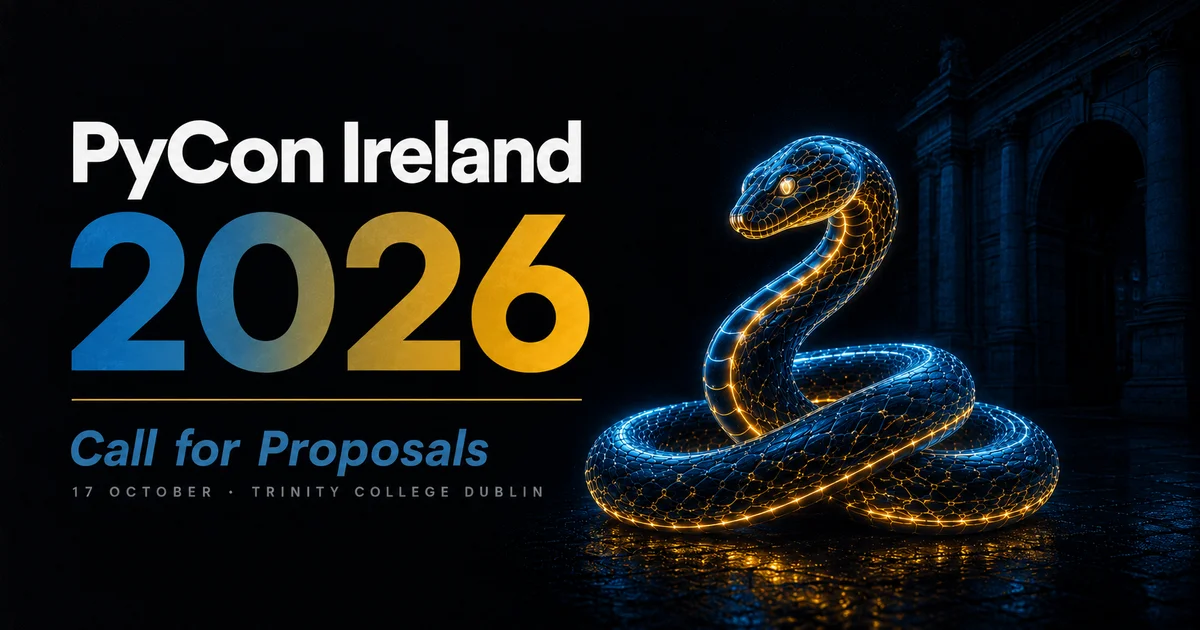
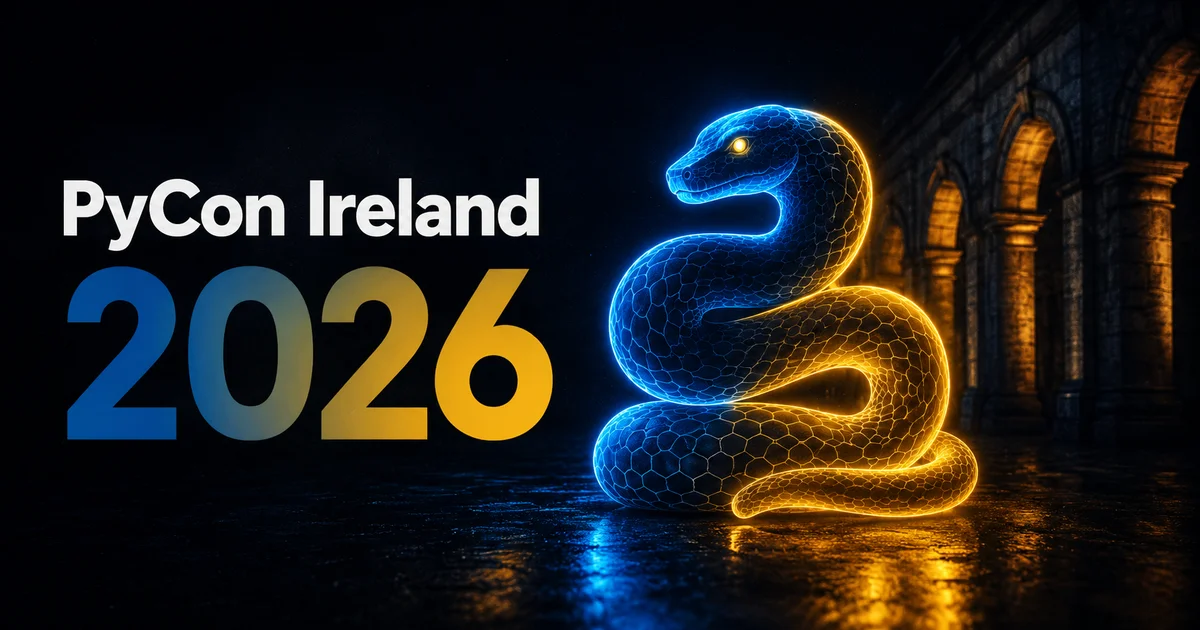
Close CFP and flag venue/date change pending new venue (#142)
* Close CFP and flag venue/date change pending new venue

Trinity College Dublin can no longer host PyCon Ireland 2026, so the
venue and date (17 October 2026) are no longer confirmed.

- Close the Call for Proposals (cfpStatus = "closed") with dedicated
  messaging on the homepage, hero, key-questions section, and the CFP
  page itself, instead of falling back to the misleading 'opening
  soon' state.
- Add a sitewide notice banner (venueChangePending param) in the
  header linking to the announcement post.
- Strike through the conference date (and venue where relevant) on
  every page that references it: homepage hero, key facts bar,
  key-questions section, footer, CFP page, and venue page.
- Add a notice box on the venue page explaining the venue is changing.
- Set the Event structured data eventStatus to EventPostponed while
  venueChangePending is true.
- Update the CFP page FAQ schema and OG/meta description to reflect
  the closure instead of a fixed deadline.
- Add a blog post explaining the venue change and CFP closure.

* Fix venue page still presenting Trinity College Dublin as confirmed

The venue page title, meta description, and hero heading asserted
Trinity College Dublin as the confirmed venue, contradicting the
notice box below it explaining the venue is changing.

- Rewrite venue page title/description to reflect the pending change
- Strike through the venue name in the hero H1 when
  venueChangePending is true, matching the pattern already used on
[…]

diff --git a/layouts/cfp/list.html b/layouts/cfp/list.html
@@ -27,6 +27,11 @@
       <span class="w-2 h-2 rounded-full bg-green-400 animate-pulse"></span>
       CFP Now Open
     </span>
+    {{ else if eq .Site.Params.cfpStatus "closed" }}
+    <span class="inline-flex items-center gap-2 bg-red-500/10 border border-red-500/30 text-red-400 text-sm font-semibold px-4 py-2 rounded-full mb-8">
+      <span class="w-2 h-2 rounded-full bg-red-400"></span>
+      CFP Temporarily Closed
+    </span>
     {{ else }}
     <span class="inline-flex items-center gap-2 bg-py-yellow/10 border border-py-yellow/30 text-py-yellow text-sm font-semibold px-4 py-2 rounded-full mb-8">
       <span class="w-2 h-2 rounded-full bg-py-yellow animate-pulse"></span>
@@ -36,9 +41,30 @@
     <h1 class="text-4xl sm:text-5xl font-bold text-text-heading mb-6 font-brand">
       {{ .Site.Title }} Call for Proposals
     </h1>
+    {{ if eq .Site.Params.cfpStatus "closed" }}
     <p class="text-xl text-text-secondary max-w-2xl mx-auto mb-8">
-      PyCon Ireland is looking for speakers. Share your Python knowledge, inspire the community, and take the stage at <strong class="text-text-primary">{{ .Site.Params.venue }}</strong> on <strong class="text-text-primary">{{ .Site.Params.dateHuman }}</strong>.
+      PyCon Ireland is looking for speakers, but the Call for Proposals is temporarily closed. Our booked venue,
+      <s class="opacity-60">{{ .Site.Params.venue }}</s>, can no longer host the event on <s class="opacity-60">{{ .Site.Params.dateHuman }}</s>.
+      We are confirming a new venue and date before reopening submissions.
     </p>
+    <div class="max-w-2xl mx-auto mb-8 bg-bg-card border border-red-500/20 rounded-2xl px-6 py-5 text-text-secondary text-sm text-left">
+      <p><strong class="text-text-primary">Why is the CFP closed?</strong> Read the full explanation in our
+      <a href="/blog/venue-change/" class="text-py-yellow hover:underline">blog post</a>. We will reopen the CFP, with a fresh timeline, once the new venue and date are confirmed.</p>
+    </div>
+    {{ else }}
+    <p class="text-xl text-text-secondary max-w-2xl mx-auto mb-8">
+      {{ if .Site.Params.venueChangePending }}
+      PyCon Ireland is looking for speakers. Share your Python knowledge and inspire the community, no need to wait for us to confirm the new venue and date before submitting your proposal.
+      {{ else }}
+      PyCon Ireland is looking for speakers. Share your Python knowledge, inspire the community, and take the stage at <strong class="text-text-primary">{{ .Site.Params.venue }}</strong> on <strong class="text-text-primary">{{ .Site.Params.dateHuman }}</strong>.
+      {{ end }}
+    </p>
+    {{ if .Site.Params.venueChangePending }}
+    <div class="max-w-2xl mx-auto mb-8 bg-bg-card border border-py-blue/20 rounded-2xl px-6 py-5 text-text-secondary text-sm text-left">
+      <p><strong class="text-text-primary">Venue and date still to be confirmed.</strong> Our booked venue can no longer host the conference, and we are working on a new venue and date. Read the
+      <a href="/blog/venue-change/" class="text-py-yellow hover:underline">latest update</a>. The Call for Proposals is open in the meantime, and accepted speakers will be informed of the new venue and date as soon as they are confirmed.</p>
+    </div>
+    {{ end }}
 
     {{/* CFP dates */}}
     <div class="flex flex-wrap justify-center gap-4 mb-8">
@@ -51,6 +77,7 @@
         <span class="text-text-secondary">Deadline <strong class="text-text-primary">{{ dateFormat "2 January 2006" .Site.Params.cfpCloses }}</strong></span>
       </div>
     </div>
+    {{ end }}
 
     {{ if eq .Site.Params.cfpStatus "open" }}
     <a href="{{ .Site.Params.cfpUrl }}" target="_blank" rel="noopener"
@@ -58,6 +85,15 @@
       Submit a Proposal
       <svg class="w-5 h-5" fill="none" viewBox="0 0 24 24" stroke="currentColor"><path stroke-linecap="round" stroke-linejoin="round" stroke-width="2" d="M14 5l7 7m0 0l-7 7m7-7H3"/></svg>
     </a>
+    {{ else if eq .Site.Params.cfpStatus "closed" }}
+    <div class="inline-flex items-center gap-3 bg-bg-card border border-white/10 rounded-2xl px-6 py-4 text-text-secondary text-sm">
+      <svg class="w-5 h-5 text-red-400 flex-shrink-0" fill="none" viewBox="0 0 24 24" stroke="currentColor"><path stroke-linecap="round" stroke-linejoin="round" stroke-width="2" d="M15 17h5l-1.405-1.405A2.032 2.032 0 0118 14.158V11a6.002 6.002 0 00-4-5.659V5a2 2 0 10-4 0v.341C7.67 6.165 6 8.388 6 11v3.159c0 .538-.214 1.055-.595 1.436L4 17h5m6 0v1a3 3 0 11-6 0v-1m6 0H9"/></svg>
+      <span>CFP closed for an indeterminate period. Follow us on
+      <a href="{{ .Site.Params.mastodonUrl }}" target="_blank" rel="me noopener" class="text-py-yellow hover:underline">Mastodon</a>,
+      <a href="https://twitter.com/{{ strings.TrimPrefix "@" .Site.Params.twitterHandle }}" target="_blank" rel="noopener" class="text-py-yellow hover:underline">X</a>
+      or <a href="{{ .Site.Params.linkedinUrl }}" target="_blank" rel="noopener" class="text-py-yellow hover:underline">LinkedIn</a>
+      for updates on the new venue, date, and CFP reopening.</span>
+    </div>
     {{ else }}
     <div class="inline-flex items-center gap-3 bg-bg-card border border-white/10 rounded-2xl px-6 py-4 text-text-secondary text-sm">
       <svg class="w-5 h-5 text-py-blue-light flex-shrink-0" fill="none" viewBox="0 0 24 24" stroke="currentColor"><path stroke-linecap="round" stroke-linejoin="round" stroke-width="2" d="M15 17h5l-1.405-1.405A2.032 2.032 0 0118 14.158V11a6.002 6.002 0 00-4-5.659V5a2 2 0 10-4 0v.341C7.67 6.165 6 8.388 6 11v3.159c0 .538-.214 1.055-.595 1.436L4 17h5m6 0v1a3 3 0 11-6 0v-1m6 0H9"/></svg>
@@ -342,6 +378,13 @@
         Submit a Proposal on Sessionize
         <svg class="w-5 h-5" fill="none" viewBox="0 0 24 24" stroke="currentColor"><path stroke-linecap="round" stroke-linejoin="round" stroke-width="2" d="M14 5l7 7m0 0l-7 7m7-7H3"/></svg>
       </a>
+      {{ else if eq .Site.Params.cfpStatus "closed" }}
+      <h2 class="text-2xl font-bold text-text-heading mb-4">Stay in the Loop</h2>
+      <p class="text-text-secondary mb-8 leading-relaxed">
+        The Call for Proposals will reopen once we have confirmed a new venue and date, currently unknown.
+        Read our <a href="/blog/venue-change/" class="text-py-yellow hover:underline">full update</a>, and
+        follow Python Ireland on social media to be among the first notified when submissions reopen.
+      </p>
       {{ else }}
       <h2 class="text-2xl font-bold text-text-heading mb-4">Stay in the Loop</h2>
       <p class="text-text-secondary mb-8 leading-relaxed">
@@ -395,10 +438,10 @@
     },
     {
       "@type": "Question",
-      "name": "When does the {{ .Site.Title }} Call for Proposals close?",
+      "name": "Is the {{ .Site.Title }} Call for Proposals open?",
       "acceptedAnswer": {
         "@type": "Answer",
-        "text": "The Call for Proposals closes on 31 July 2026. Submissions are reviewed by the programme committee and applicants are notified of the outcome."
+        "text": "{{ if eq .Site.Params.cfpStatus "closed" }}The Call for Proposals is temporarily closed. The original venue can no longer host the conference, so a new venue and date are being confirmed before submissions reopen.{{ else if eq .Site.Params.cfpStatus "open" }}Yes, the Call for Proposals is open until {{ dateFormat "2 January 2006" .Site.Params.cfpCloses }}.{{ if .Site.Params.venueChangePending }} The venue and date are still being confirmed, but you can submit your talk now.{{ end }}{{ else }}The Call for Proposals is not open yet.{{ end }}"
       }
     }
   ]

diff --git a/layouts/venue/list.html b/layouts/venue/list.html
@@ -24,7 +24,11 @@
     <div class="relative z-10 max-w-4xl mx-auto px-4 text-center">
       <p class="text-py-yellow font-semibold text-sm uppercase tracking-widest mb-4">{{ .Site.Title }}</p>
       <h1 class="font-brand text-5xl sm:text-6xl md:text-7xl font-extrabold leading-tight mb-6" style="text-shadow: 0 2px 20px rgba(0,0,0,0.8), 0 0 40px rgba(0,0,0,0.6);">
-        {{ .Site.Params.venue }}
+        {{ if .Site.Params.venueChangePending }}
+          <s class="opacity-60 decoration-2">{{ .Site.Params.venue }}</s>
+        {{ else }}
+          {{ .Site.Params.venue }}
+        {{ end }}
       </h1>
       <p class="text-xl sm:text-2xl text-text-secondary max-w-2xl mx-auto">
         {{ .Description }}
@@ -40,7 +44,23 @@
 <div>
   <div class="section-divider max-w-7xl mx-auto"></div>
 
+  {{ if .Site.Params.venueChangePending }}
+  <section class="pt-16">
+    <div class="max-w-5xl mx-auto px-4 sm:px-6 lg:px-8">
+      <div class="bg-bg-card border border-red-500/20 rounded-2xl p-6 flex flex-col sm:flex-row items-start gap-4">
+        <svg class="w-6 h-6 text-red-400 flex-shrink-0 mt-0.5" fill="none" viewBox="0 0 24 24" stroke="currentColor"><path stroke-linecap="round" stroke-linejoin="round" stroke-width="2" d="M12 9v3.75m-9.303 3.376c-.866 1.5.217 3.374 1.948 3.374h14.71c1.73 0 2.813-1.874 1.948-3.374L13.949 3.378c-.866-1.5-3.032-1.5-3.898 0L2.697 16.126zM12 15.75h.007v.008H12v-.008z"/></svg>
+        <div class="text-text-secondary text-sm leading-relaxed">
+          <strong class="text-text-heading block mb-1">This venue is changing.</strong>
+          <s class="opacity-60">{{ .Site.Params.venue }}</s> is no longer able to host {{ .Site.Title }}. We are working to confirm a new venue and date, and will update this page as soon as details are available.
+          Read the full update on our <a href="/blog/venue-change/" class="text-py-yellow hover:underline">blog</a>.
+        </div>
+      </div>
+    </div>
+  </section>
+  {{ end }}
+
   {{/* Venue details */}}
+  {{ if not .Site.Params.venueChangePending }}
   <section class="py-16">
     <div class="max-w-5xl mx-auto px-4 sm:px-6 lg:px-8">
       <div class="grid grid-cols-1 lg:grid-cols-2 gap-12">
@@ -119,8 +139,10 @@
       </div>
     </div>
   </section>
+  {{ end }}
 </div>
 {{/* ── Accessibility ── */}}
+{{ if not .Site.Params.venueChangePending }}
 <section class="py-20 bg-bg-secondary">
   <div class="max-w-5xl mx-auto px-4 sm:px-6 lg:px-8">
     <div class="text-center mb-12">
@@ -205,8 +227,10 @@
     </div>
   </div>
 </section>
+{{ end }}
 
 {{/* Place schema — defines the @id referenced from the homepage Event location */}}
+{{ if not .Site.Params.venueChangePending }}
 <script type="application/ld+json">
 {
   "@context": "https://schema.org",
@@ -230,5 +254,6 @@
   "telephone": "{{ .Site.Params.venuePhone }}"
 }
 </script>
+{{ end }}
 
 {{ end }}

diff --git a/layouts/partials/key-questions.html b/layouts/partials/key-questions.html
@@ -2,9 +2,17 @@
   <div class="max-w-4xl mx-auto px-4 sm:px-6 lg:px-8">
     <h2 class="text-2xl font-bold text-text-heading mb-3">When and where is {{ .Site.Title }}?</h2>
     <p class="text-text-secondary mb-8 max-w-2xl">
+      {{ if .Site.Params.venueChangePending }}
+      {{ .Site.Title }} was due to take place on <s class="opacity-60">{{ .Site.Params.dateHuman }}</s>
+      at <s class="opacity-60">{{ .Site.Params.venue }}</s>, College Green, Dublin 2, Ireland.
+      The venue can no longer host the event, so a new venue and date are being confirmed — see our
+      <a href="/blog/venue-change/" class="text-py-yellow hover:underline">latest update</a>.
+      It will remain a single-day, multi-track conference organised by Python Ireland, a not-for-profit community organisation.
+      {{ else }}
       {{ .Site.Title }} takes place on <strong class="text-text-primary">{{ .Site.Params.dateHuman }}</strong>
       at <strong class="text-text-primary">{{ .Site.Params.venue }}</strong>, College Green, Dublin 2, Ireland.
       It is a single-day, multi-track conference organised by Python Ireland, a not-for-profit community organisation.
+      {{ end }}
     </p>
     {{ if eq .Site.Params.cfpStatus "open" }}
     <h2 class="text-2xl font-bold text-text-heading mb-3">How do I submit a talk to {{ .Site.Title }}?</h2>
@@ -13,6 +21,12 @@
       All experience levels are welcome, from first-time presenters to conference veterans.
       Topics include Python, data science, AI engineering, scientific computing, and real-world Python use cases.
       <a href="/cfp/" class="text-py-yellow hover:underline">Read the full CFP guidelines</a>.
+    </p>
+    {{ else if eq .Site.Params.cfpStatus "closed" }}
+    <h2 class="text-2xl font-bold text-text-heading mb-3">Is the Call for Proposals for {{ .Site.Title }} open?</h2>
+    <p class="text-text-secondary mb-8 max-w-2xl">
+      No, the Call for Proposals is temporarily closed while we confirm a new venue and date.
+      <a href="/cfp/" class="text-py-yellow hover:underline">Read the full CFP page</a> for details, and follow us on social media for updates on when it reopens.
     </p>
     {{ end }}
     {{- /* Ticket price Q&A hidden until confirmed — see issue #115

diff --git a/layouts/partials/venue-home.html b/layouts/partials/venue-home.html
@@ -1,8 +1,14 @@
 <section class="py-24">
   <div class="max-w-7xl mx-auto px-4 sm:px-6 lg:px-8">
-    <div class="grid grid-cols-1 lg:grid-cols-2 gap-12 items-center">
-      <div>
+    <div class="grid grid-cols-1 {{ if not .Site.Params.venueChangePending }}lg:grid-cols-2{{ end }} gap-12 items-center">
+      <div{{ if .Site.Params.venueChangePending }} class="max-w-2xl mx-auto text-center"{{ end }}>
         <h2 class="text-3xl sm:text-4xl font-bold text-text-heading mb-4">The Venue</h2>
+        {{ if .Site.Params.venueChangePending }}
+        <div class="bg-bg-card border border-py-blue/20 rounded-2xl px-6 py-5 text-text-secondary text-sm leading-relaxed mb-6 text-left">
+          <strong class="text-text-heading block mb-1">Venue and date to be confirmed.</strong>
+          Our booked venue can no longer host {{ .Site.Title }}. We are working to confirm a new venue and date, and will update this page as soon as details are available.
+        </div>
+        {{ else }}
         <h3 class="text-xl text-py-blue-light font-semibold mb-4">{{ .Site.Params.venue }}</h3>
         <p class="text-text-secondary mb-6 leading-relaxed">
           Trinity College Dublin is one of Ireland's most iconic universities, located in
@@ -13,11 +19,13 @@
           <svg class="w-5 h-5 inline-block text-py-yellow mr-2" fill="none" viewBox="0 0 24 24" stroke="currentColor"><path stroke-linecap="round" stroke-linejoin="round" stroke-width="2" d="M17.657 16.657L13.414 20.9a1.998 1.998 0 01-2.827 0l-4.244-4.243a8 8 0 1111.314 0z"/><path stroke-linecap="round" stroke-linejoin="round" stroke-width="2" d="M15 11a3 3 0 11-6 0 3 3 0 016 0z"/></svg>
           {{ .Site.Params.venueAddress }}
         </p>
+        {{ end }}
         <a href="/venue/" class="text-py-blue-light hover:text-py-yellow font-semibold transition-colors">
           Venue Details &rarr;
         </a>
       </div>
 
+      {{ if not .Site.Params.venueChangePending }}
       {{ $lat := .Site.Params.venueMapLat | float }}
       {{ $lon := .Site.Params.venueMapLon | float }}
       {{ $d := 0.008 }}
@@ -30,6 +38,7 @@
           title="Venue map">
         </iframe>
       </div>
+      {{ end }}
     </div>
   </div>
 </section>

diff --git a/layouts/index.html b/layouts/index.html
@@ -6,13 +6,24 @@
       <div class="flex flex-col sm:flex-row gap-4 sm:gap-8 justify-center items-center text-sm text-text-secondary">
         <span class="flex items-center gap-2">
           <svg class="w-4 h-4 text-py-yellow flex-shrink-0" fill="none" viewBox="0 0 24 24" stroke="currentColor"><path stroke-linecap="round" stroke-linejoin="round" stroke-width="2" d="M8 7V3m8 4V3m-9 8h10M5 21h14a2 2 0 002-2V7a2 2 0 00-2-2H5a2 2 0 00-2 2v12a2 2 0 002 2z"/></svg>
+          {{ if .Site.Params.venueChangePending }}
+          <s class="text-text-primary opacity-60">{{ .Site.Params.dateHuman }}</s> &middot; <s class="opacity-60">{{ .Site.Params.venue }}</s>
+          <span class="text-text-secondary">(new venue &amp; date TBC)</span>
+          {{ else }}
           <strong class="text-text-primary">{{ .Site.Params.dateHuman }}</strong> &middot; {{ .Site.Params.venue }}
+          {{ end }}
         </span>
         {{ if eq .Site.Params.cfpStatus "open" }}
         <span class="flex items-center gap-2">
           <svg class="w-4 h-4 text-py-yellow flex-shrink-0" fill="none" viewBox="0 0 24 24" stroke="currentColor"><path stroke-linecap="round" stroke-linejoin="round" stroke-width="2" d="M15.232 5.232l3.536 3.536m-2.036-5.036a2.5 2.5 0 113.536 3.536L6.5 21.036H3v-3.572L16.732 3.732z"/></svg>
           <span>CFP open &middot; closes <strong class="text-text-primary">{{ dateFormat "2 January 2006" .Site.Params.cfpCloses }}</strong> &middot;
           <a href="/cfp/" class="text-py-yellow hover:underline">Submit a talk</a></span>
+        </span>
+        {{ else if eq .Site.Params.cfpStatus "closed" }}
+        <span class="flex items-center gap-2">
+          <svg class="w-4 h-4 text-red-400 flex-shrink-0" fill="none" viewBox="0 0 24 24" stroke="currentColor"><path stroke-linecap="round" stroke-linejoin="round" stroke-width="2" d="M6 18L18 6M6 6l12 12"/></svg>
+          <span>CFP temporarily closed &middot;
+          <a href="/cfp/" class="text-py-yellow hover:underline">Learn more</a></span>
         </span>
         {{ end }}
         {{- /* Ticket prices hidden until confirmed — see issue #115

diff --git a/layouts/partials/hero.html b/layouts/partials/hero.html
@@ -49,7 +49,12 @@
     </h1>
 
     <p class="text-py-yellow font-semibold text-base sm:text-lg uppercase tracking-widest mb-8">
-      {{ .Site.Params.hero.date }} &middot; {{ .Site.Params.hero.location }}
+      {{ if .Site.Params.venueChangePending }}
+        <s class="opacity-60 decoration-2">{{ .Site.Params.hero.date }}</s> &middot; <s class="opacity-60 decoration-2">{{ .Site.Params.hero.location }}</s>
+        <span class="block sm:inline text-text-secondary normal-case tracking-normal text-sm mt-1 sm:mt-0 sm:ml-2">New venue &amp; date to be announced</span>
+      {{ else }}
+        {{ .Site.Params.hero.date }} &middot; {{ .Site.Params.hero.location }}
+      {{ end }}
     </p>
 
     <p class="text-xl sm:text-2xl text-text-secondary max-w-2xl mx-auto mb-10">
@@ -60,6 +65,14 @@
       {{ if eq .Site.Params.cfpStatus "open" }}
         <a href="/cfp/" class="bg-py-yellow text-bg-primary px-8 py-4 rounded-xl text-lg font-semibold hover:bg-py-yellow-light transition-colors">
           Submit a Talk &rarr;
+        </a>
+        <a href="#about" class="border border-white/50 text-white px-8 py-4 rounded-xl text-lg font-semibold hover:bg-white/10 transition-colors">
+          Learn More
+        </a>
+      {{ else if eq .Site.Params.cfpStatus "closed" }}
+        <a href="/cfp/" class="inline-flex items-center gap-2 bg-white/10 border border-white/20 text-white px-8 py-4 rounded-xl text-lg font-semibold hover:bg-white/15 transition-colors">
+          <span class="w-2 h-2 rounded-full bg-red-400"></span>
+          CFP Temporarily Closed
         </a>
         <a href="#about" class="border border-white/50 text-white px-8 py-4 rounded-xl text-lg font-semibold hover:bg-white/10 transition-colors">
           Learn More

diff --git a/layouts/partials/nav.html b/layouts/partials/nav.html
@@ -1,4 +1,16 @@
 <header class="fixed top-0 left-0 right-0 z-50 nav-blur bg-bg-primary/80 border-b border-white/5">
+  {{ if .Site.Params.venueChangePending }}
+  <div class="bg-red-500/15 border-b border-red-500/30">
+    <div class="max-w-7xl mx-auto px-4 sm:px-6 lg:px-8 py-2 flex flex-wrap items-center justify-center gap-x-2 gap-y-1 text-center text-xs sm:text-sm">
+      <svg class="w-4 h-4 text-red-400 flex-shrink-0" fill="none" viewBox="0 0 24 24" stroke="currentColor"><path stroke-linecap="round" stroke-linejoin="round" stroke-width="2" d="M12 9v3.75m-9.303 3.376c-.866 1.5.217 3.374 1.948 3.374h14.71c1.73 0 2.813-1.874 1.948-3.374L13.949 3.378c-.866-1.5-3.032-1.5-3.898 0L2.697 16.126zM12 15.75h.007v.008H12v-.008z"/></svg>
+      <span class="text-text-primary">
+        <strong>Venue &amp; date update:</strong> our booked venue can no longer host {{ .Site.Title }}. A new venue and date are being confirmed.
+        {{ if eq .Site.Params.cfpStatus "open" }}The Call for Proposals is open in the meantime, until {{ dateFormat "2 January 2006" .Site.Params.cfpCloses }}.{{ else if eq .Site.Params.cfpStatus "closed" }}The Call for Proposals is temporarily closed.{{ end }}
+      </span>
+      <a href="/blog/venue-change/" class="text-py-yellow hover:underline font-semibold whitespace-nowrap">Read the update &rarr;</a>
+    </div>
+  </div>
+  {{ end }}
   <nav class="max-w-7xl mx-auto px-4 sm:px-6 lg:px-8">
     <div class="flex items-center justify-between h-16">
       {{/* Logo */}}

diff --git a/layouts/partials/head.html b/layouts/partials/head.html
@@ -1,6 +1,7 @@
 <meta charset="utf-8">
 <meta name="viewport" content="width=device-width, initial-scale=1">
-<title>{{ if .IsHome }}{{ .Site.Title }} — Python Conference · Dublin, {{ dateFormat "2 January" (time .Site.Params.eventStartDate) }}{{ else }}{{ .Title }} | {{ .Site.Title }}{{ end }}</title>
+{{/* TODO: restore ", {{ dateFormat "2 January" (time .Site.Params.eventStartDate) }}" once a new venue and date are confirmed — see venueChangePending in hugo.toml */}}
+<title>{{ if .IsHome }}{{ .Site.Title }} — Python Conference · Dublin{{ else }}{{ .Title }} | {{ .Site.Title }}{{ end }}</title>
 <meta name="description" content="{{ with .Description }}{{ . }}{{ else }}{{ .Site.Params.description }}{{ end }}">
 <meta name="robots" content="index, follow">
 <meta name="google-site-verification" content="QPz8yzH2pOdYQFiK3Ndfd2VqhtQDzvkDs1YSZHntgao">

diff --git a/layouts/partials/structured-data.html b/layouts/partials/structured-data.html
@@ -41,7 +41,7 @@
   "description": "{{ .Site.Params.description }}",
   "startDate": "{{ .Site.Params.eventStartDate }}",
   "endDate": "{{ .Site.Params.eventEndDate }}",
-  "eventStatus": "https://schema.org/EventScheduled",
+  "eventStatus": "https://schema.org/{{ if .Site.Params.venueChangePending }}EventPostponed{{ else }}EventScheduled{{ end }}",
   "eventAttendanceMode": "https://schema.org/OfflineEventAttendanceMode",
   "location": {
     "@type": "Place",

diff --git a/layouts/partials/footer.html b/layouts/partials/footer.html
@@ -12,7 +12,11 @@
         </a>
         <p class="text-text-secondary text-sm">
           Ireland's premier Python conference.<br>
+          {{ if .Site.Params.venueChangePending }}
+          <s class="opacity-60">{{ .Site.Params.dateHuman }}</s> (new date TBC)
+          {{ else }}
           {{ .Site.Params.dateHuman }}
+          {{ end }}
         </p>
       </div>
 

diff --git a/content/blog/venue-change.md b/content/blog/venue-change.md
@@ -1,0 +1,30 @@
+---
+title: "Update on PyCon Ireland 2026: Venue Change and Extended CFP Deadline"
+date: 2026-07-04
+description: "Trinity College Dublin can no longer host PyCon Ireland 2026. We are confirming a new venue and date, and the Call for Proposals deadline has been extended to 30 August 2026."
+draft: false
+---
+
+Our booked venue, **Trinity College Dublin**, has informed us that it can no longer host the conference. This decision was made by the venue, and it means we can no longer confirm **17 October 2026** as our event date.
+
+We know this is disappointing, especially for everyone who was planning to submit a talk, book travel, or simply mark the date in their calendar. We're disappointed too, but we want to be transparent with the community as soon as we have news, rather than staying quiet while we sort things out.
+
+## What This Means Right Now
+
+- **The Call for Proposals deadline has been extended to 30 August 2026.** We don't want the venue search to hold back speakers who want to share their Python knowledge, so submissions remain open, you don't need to wait for the new venue and date to submit. Submit your proposal on our [Sessionize page](https://sessionize.com/pycon-ireland-2026/).
+- **The conference date of 17 October 2026 no longer stands.** We will announce a new date once we have one.
+- **We are actively looking for a new venue** in the Dublin area that can accommodate the conference. As soon as a venue and date are confirmed, we will update the website and announce it through our usual channels.
+- **If you already submitted a talk, don't worry, your proposal is safe.** We will let speakers know the new date and venue as soon as they're confirmed, so you can make your own arrangements in good time.
+
+## What Stays the Same
+
+- **PyCon Ireland 2026 is still happening.** We are treating this as a reschedule, not a cancellation.
+- **Our commitment to the community remains unchanged**, we are as enthusiastic as ever to showcase your talks, from first-time speakers to seasoned practitioners.
+- **The team has already begun the process of securing a new venue.** We will share updates as soon as there is something concrete to report.
+- We still welcome proposals from first-time and experienced speakers alike, across the full range of Python topics, in both full-talk (30 minutes) and lightning-talk (5 minutes) formats. See the [full CFP page](/cfp/) for submission guidelines.
+
+## How to Stay Updated
+
+The fastest way to hear about the new venue and date is to follow us on [Mastodon](https://mastodon.ie/@Python_Ireland), [X](https://twitter.com/pythonireland), or [LinkedIn](https://www.linkedin.com/company/python-ireland). We will also post updates here on the blog.
+
+Thank you for your patience and continued support of Python Ireland. We look forward to sharing better news with you soon, and we can't wait to read your proposals.

diff --git a/content/terms-and-conditions/_index.md b/content/terms-and-conditions/_index.md
@@ -1,12 +1,15 @@
 ---
 title: Terms and Conditions
-description: "Read the terms and conditions for purchasing tickets and attending PyCon Ireland 2026 at Trinity College Dublin on 17 October 2026."
+# TODO: restore date/venue once confirmed — see venueChangePending in hugo.toml
+description: "Read the terms and conditions for purchasing tickets and attending PyCon Ireland 2026, organised by Python Ireland."
 layout: "single"
 ---
 
+<!-- TODO: restore date/venue once confirmed — see venueChangePending in hugo.toml -->
+
 ### Terms and Conditions — PyCon Ireland 2026
 
-These Terms and Conditions govern the purchase of tickets and attendance at PyCon Ireland 2026 ("the Event"), organised by Python Ireland Developers CLG ("Python Ireland"), taking place on 17 October 2026 at Trinity College Dublin, Ireland.
+These Terms and Conditions govern the purchase of tickets and attendance at PyCon Ireland 2026 ("the Event"), organised by Python Ireland Developers CLG ("Python Ireland"). The venue and date are currently being confirmed following a change of venue; this page will be updated once they are finalised.
 
 By purchasing a ticket or attending the Event, you agree to be bound by these Terms and Conditions.
 
